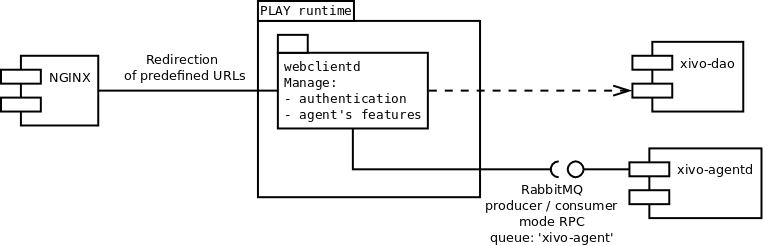
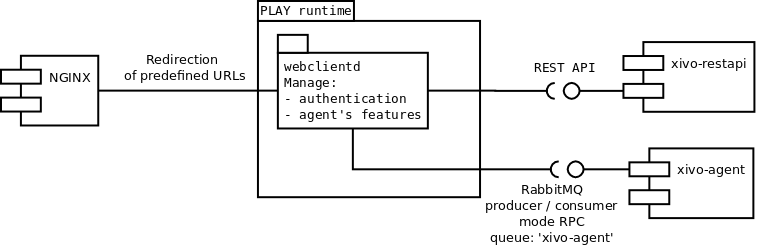
Fix webclientd interfaces

diff --git a/source/developers/design/xivo-webclientd.rst b/source/developers/design/xivo-webclientd.rst
@@ -20,9 +20,9 @@ development and implementation of following actions is in progress:
 Component's architecture from 10,000 feet
 *****************************************
 
-This component is using Play_ framework. Play framework based application verify user's credentials in
-the configuration database via DAO component. The Direct Exchange queue ``xivo_agent`` is used in RPC
-mode for agent's features management.
+This component is using Play_ framework. Play framework based application verify user's credentials
+using ``xivo-rest-api`` web services. The Direct Exchange queue ``xivo_agent`` is used in RPC mode for
+agent's features management.
 
 .. _Play: http://www.playframework.com/
 
